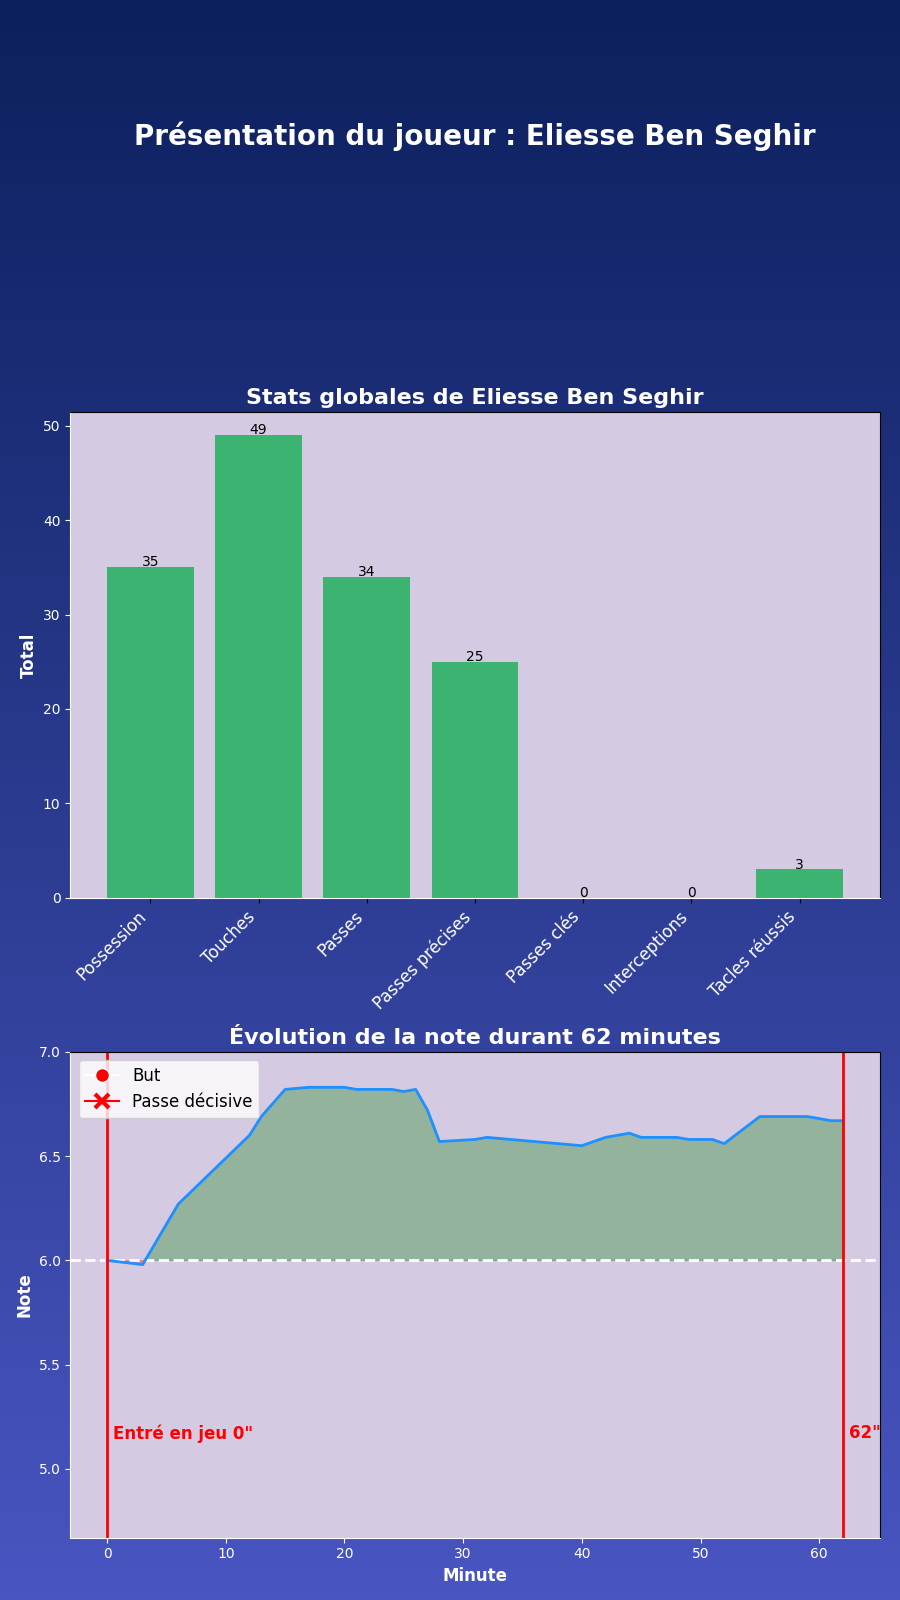
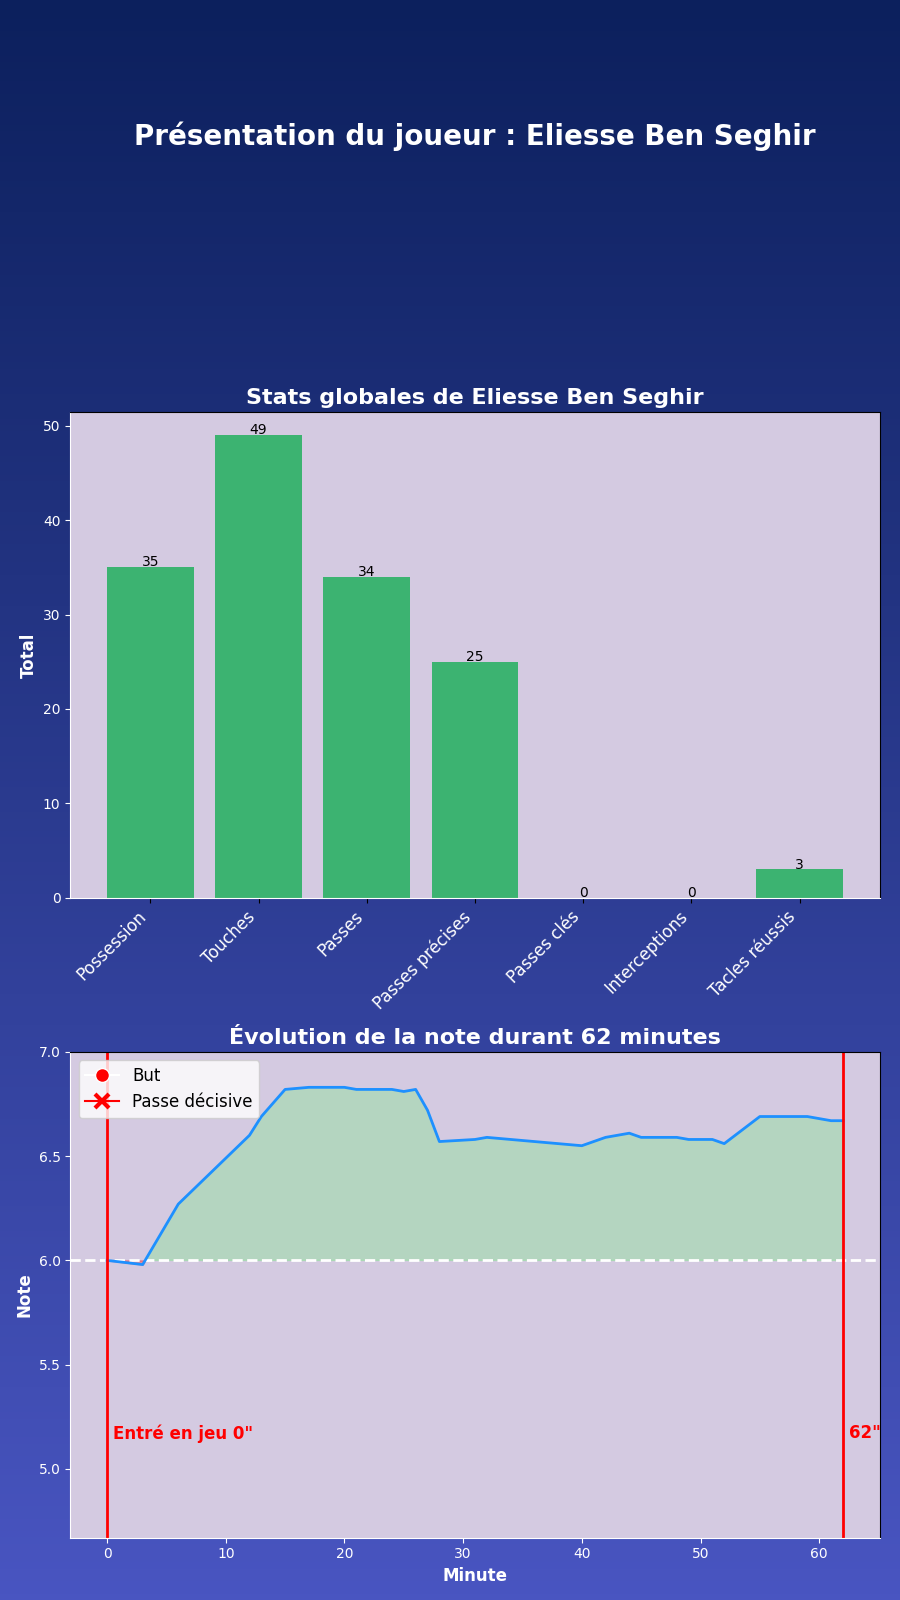
MAJ - protoype visu

Changed region(s): [[0.1556, 0.6562, 0.9333, 0.8125]]

diff --git a/src/player_visualizer.py b/src/player_visualizer.py
@@ -7,6 +7,9 @@ import numpy as np
 from matplotlib.gridspec import GridSpec
 import matplotlib.colors as mcolors
 import matplotlib.image as mpimg
+from mpl_toolkits.axes_grid1 import make_axes_locatable
+from scipy.ndimage import gaussian_filter
+
 
 class PlayerVisualizer:
     def __init__(self, player_data_path):
@@ -40,6 +43,104 @@ class PlayerVisualizer:
                 failed_passes.append(pas)
 
         return forward_passes, lateral_passes, backward_passes, successful_passes, failed_passes
+
+    def plot_passes_heatmap_and_bar_charts(self, save_path):
+        events = self.player_data.get('events', [])
+        passes = [event for event in events if event['type']['displayName'] == 'Pass']
+
+        if not passes:
+            print(f"Pas de passes trouvées pour {self.player_data['player_name']}. Aucun visuel généré.")
+            return
+
+        forward_passes, lateral_passes, backward_passes, successful_passes, failed_passes = self._classify_passes(passes)
+        total_passes = len(passes)
+
+        # Choisir les deux couleurs en hexadecimal
+        color1 = "#0c205d"  # Bleu foncé
+        color2 = "#4955c1"  # Violet
+
+        # Créer un gradient vertical (de haut en bas)
+        gradient = np.linspace(0, 1, 256).reshape(-1, 1)
+        gradient = np.hstack((gradient, gradient))
+
+        # Créer un colormap personnalisé à partir des couleurs hexadécimales
+        cmap = mcolors.LinearSegmentedColormap.from_list("", [color1, color2])
+
+        # Créer une figure
+        fig = plt.figure(figsize=(12, 15))
+
+        # Ajouter un axe qui occupe toute la figure
+        ax = fig.add_axes([0, 0, 1, 1])
+
+        # Désactiver les axes
+        ax.axis('off')
+
+        # Appliquer le gradient vertical avec les couleurs choisies
+        ax.imshow(gradient, aspect='auto', cmap=cmap, extent=[0, 1, 0, 1])
+
+        # Creating a grid to place data visualizations on the first line and pitches on the second line
+        gs = GridSpec(6, 2, width_ratios=[3, 2])
+
+        # Right side (0,1) with a semi-circular gauge and additional bar charts (like in the image)
+        #ax_gauge = fig.add_subplot(gs[0, 1], polar=True)
+        #self._plot_semi_circular_gauge(ax_gauge, "Récupérations réussies", 100, 100)
+
+        # Horizontal bars for forward, lateral, and backward passes
+        ax_bar1 = fig.add_subplot(gs[0, 1])
+        ax_bar2 = fig.add_subplot(gs[1, 1])
+        ax_bar3 = fig.add_subplot(gs[2, 1])
+    
+        self._add_horizontal_bar(ax_bar1, 'Dribbles réussies', len(forward_passes), total_passes)
+        self._add_horizontal_bar(ax_bar2, 'Tirs cadrés', len(lateral_passes), total_passes)
+        self._add_horizontal_bar(ax_bar3, 'Fautes subies', len(backward_passes), total_passes)
+
+        # 2. Plotting the pitches on the second row
+
+        # First pitch (1,0) - left side
+        pitch = VerticalPitch(pitch_type='opta', pitch_color='none', line_color='white', linewidth=2)
+        ax_pitch_left = fig.add_subplot(gs[3:, 0])
+        pitch.draw(ax=ax_pitch_left)
+
+        for pas in passes:
+            y_start = pas['x']
+            x_start = pas['y']
+            y_end = pas['endX']
+            x_end = pas['endY']
+
+            color = '#6DF176' if pas['outcomeType']['displayName'] == 'Successful' else 'red'
+            pitch.arrows(y_start, x_start, y_end, x_end, width=2, headwidth=3, headlength=3, color=color, ax=ax_pitch_left)
+
+        ax_pitch_left.set_title(f"Passes de {self.player_data['player_name']}", fontsize=15, color='white', fontweight='bold', ha='center')
+
+        # 3. Plotting the second pitch (right) with heatmap on the second row
+        ax_pitch_right = fig.add_subplot(gs[3:, 1])
+        pitch.draw(ax=ax_pitch_right)
+    
+        # Collecting all pass starting positions
+        touchs  = [event for event in events]
+        x_coords = [t['x'] for t in touchs]
+        y_coords = [t['y'] for t in touchs]
+    
+        # Compute bin statistic for heatmap
+        bin_statistic = pitch.bin_statistic(x_coords, y_coords, statistic='count', bins=(25, 25))
+    
+        # Apply Gaussian filter for smoothing
+        bin_statistic['statistic'] = gaussian_filter(bin_statistic['statistic'], 1)
+    
+        # Create a custom colormap with transparent low values and purple high values
+        transparent_to_purple = mcolors.LinearSegmentedColormap.from_list(
+            'transparent_purple', [(1, 1, 1, 0.1), (1, 1, 1, 0.5), '#ff0000'], N=256
+        )
+
+        # Plot the heatmap using the custom colormap with transparency for low activity areas
+        pitch.heatmap(bin_statistic, ax=ax_pitch_right, cmap=transparent_to_purple)
+    
+        ax_pitch_right.set_title("Heatmap des passes", fontsize=15, color='white', fontweight='bold', ha='center')
+    
+        plt.tight_layout()
+        plt.savefig(save_path, facecolor=fig.get_facecolor(), edgecolor='none')
+        plt.show()
+
 
     def plot_passes_and_bar_charts(self, save_path):
         events = self.player_data.get('events', [])
@@ -92,10 +193,10 @@ class PlayerVisualizer:
             y_end = pas['endX']
             x_end = pas['endY']
     
-            color = 'deepskyblue' if pas['outcomeType']['displayName'] == 'Successful' else 'red'
+            color = '#6DF176' if pas['outcomeType']['displayName'] == 'Successful' else 'red'
             pitch.arrows(y_start, x_start, y_end, x_end, width=2, headwidth=3, headlength=3, color=color, ax=ax_pitch)
     
-        success_patch = mpatches.Patch(color='deepskyblue', label='Passe réussie')
+        success_patch = mpatches.Patch(color='#6DF176', label='Passe réussie')
         failed_patch = mpatches.Patch(color='red', label='Passe ratée')
         ax_pitch.legend(handles=[success_patch, failed_patch], loc='upper right', bbox_to_anchor=(1.295, 1), fontsize=12)
         ax_pitch.set_title("@MaData_fr", fontsize=20, color=(1, 1, 1, 0), fontweight='bold', loc='center')
@@ -131,7 +232,7 @@ class PlayerVisualizer:
         theta = np.linspace(np.pi, 0, 100)
 
         # Create a color map from red to custom green (#6DF176)
-        cmap = mcolors.LinearSegmentedColormap.from_list('red_green', ['red', 'orange', '#6DF176'])
+        cmap = mcolors.LinearSegmentedColormap.from_list('orange', ['orange', '#6DF176'])
 
         # Get the interpolated color based on the percentage (0 is red, 1 is #6DF176)
         color = cmap(percentage)
@@ -298,7 +399,7 @@ class PlayerVisualizer:
 
         # Remplissage des zones
         ax2.fill_between(minutes, ratings_over_time, threshold, where=(ratings_over_time >= threshold), 
-                         interpolate=True, color='green', alpha=0.3)
+                         interpolate=True, color='#6DF176', alpha=0.3)
         ax2.fill_between(minutes, ratings_over_time, threshold, where=(ratings_over_time < threshold), 
                          interpolate=True, color='red', alpha=0.3)
 
@@ -413,7 +514,7 @@ class PlayerVisualizer:
             'Foul': '*'           # Étoile
         }
         color_map = {
-            'Successful': 'green',
+            'Successful': '#6DF176',
             'Unsuccessful': 'red'
         }
 
@@ -466,7 +567,7 @@ class PlayerVisualizer:
                     continue
                 color = 'red'
             else:
-                color = color_map.get(outcome, 'green')  # Default to green if outcome not recognized
+                color = color_map.get(outcome, '#6DF176')  # Default to green if outcome not recognized
             
             pitch.scatter(x, y, s=200, marker=marker, color=color, edgecolor='white', linewidth=1.5, ax=ax_pitch)
 
@@ -572,13 +673,13 @@ class PlayerVisualizer:
             if event_type == 'TakeOn':
                 # Carré pour les dribbles
                 marker = 's'  
-                color = 'green' if outcome == 'Successful' else 'red'
+                color = '#6DF176' if outcome == 'Successful' else 'red'
                 pitch.scatter(x, y, s=200, marker=marker, color=color, edgecolor='white', linewidth=1.5, ax=ax_pitch)
 
             elif event_type in ['MissedShots', 'SavedShot','Goal']:
                 # Ronds pour les tirs et les buts
                 marker = 'o'
-                color = 'green' if event_type == 'Goal' else 'red'
+                color = '#6DF176' if event_type == 'Goal' else 'red'
 
                 # Ajouter le point de tir
                 pitch.scatter(x, y, s=200, marker=marker, color=color, edgecolor='white', linewidth=1.5, ax=ax_pitch)
@@ -595,7 +696,7 @@ class PlayerVisualizer:
                 
                 # Étoiles pour les fautes subies
                 marker = '*'  
-                color = 'green' #if outcome == 'Successful' else 'red'
+                color = '#6DF176' #if outcome == 'Successful' else 'red'
                 if outcome == 'Successful':
                     pitch.scatter(x, y, s=200, marker=marker, color=color, edgecolor='white', linewidth=1.5, ax=ax_pitch)
 

diff --git a/src/main.py b/src/main.py
@@ -18,11 +18,13 @@ def main(url, player_name):
     save_path_defensive = os.path.join(save_dir, f'{player_name.replace(" ", "_")}_defensive_activity.png')
     save_path_offensive_pitch = os.path.join(save_dir, f'{player_name.replace(" ", "_")}_offensive_activity_pitch.png')
     save_path_offensive_goal = os.path.join(save_dir, f'{player_name.replace(" ", "_")}_offensive_activity_goal.png')
+    save_path_activity = os.path.join(save_dir, f'{player_name.replace(" ", "_")}_activity_goal.png')
 
-    visualizer.plot_passes_and_bar_charts(save_path_passes)
-    visualizer.plot_stats_visualizations(save_path_stats)
-    visualizer.plot_defensive_activity(save_path_defensive)
-    visualizer.plot_offensive_activity(save_path_offensive_pitch, save_path_offensive_goal)
+    #visualizer.plot_passes_and_bar_charts(save_path_passes)
+    #visualizer.plot_stats_visualizations(save_path_stats)
+    #visualizer.plot_defensive_activity(save_path_defensive)
+    #visualizer.plot_offensive_activity(save_path_offensive_pitch, save_path_offensive_goal)
+    visualizer.plot_passes_heatmap_and_bar_charts(save_path_activity)
 
 if __name__ == "__main__":
     if len(sys.argv) != 3:
